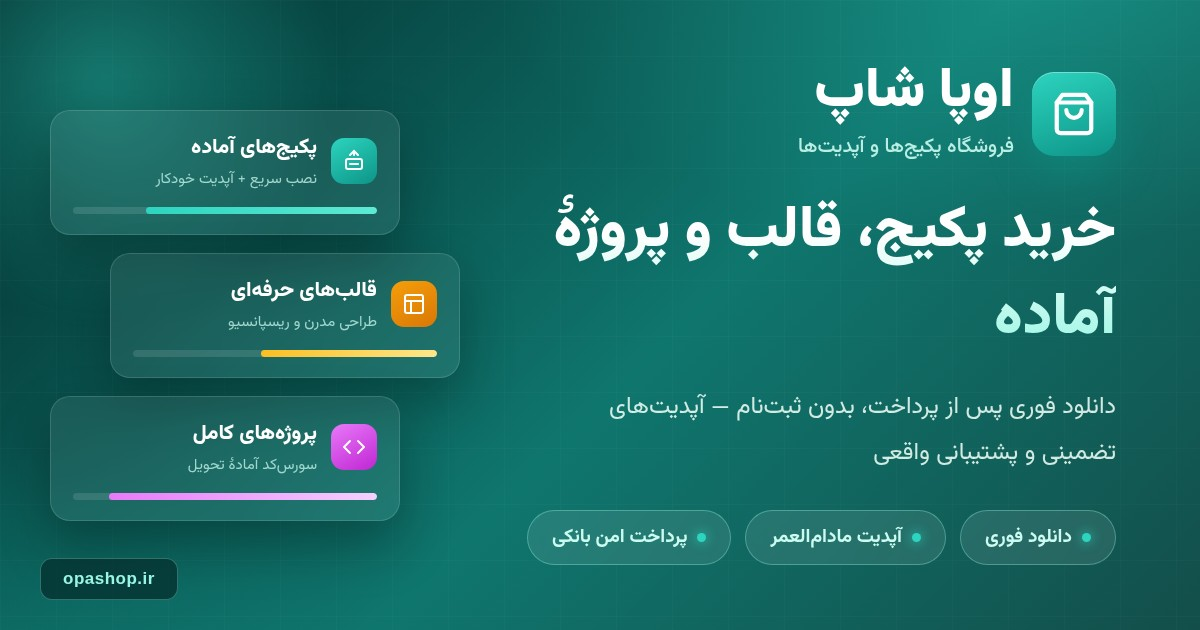
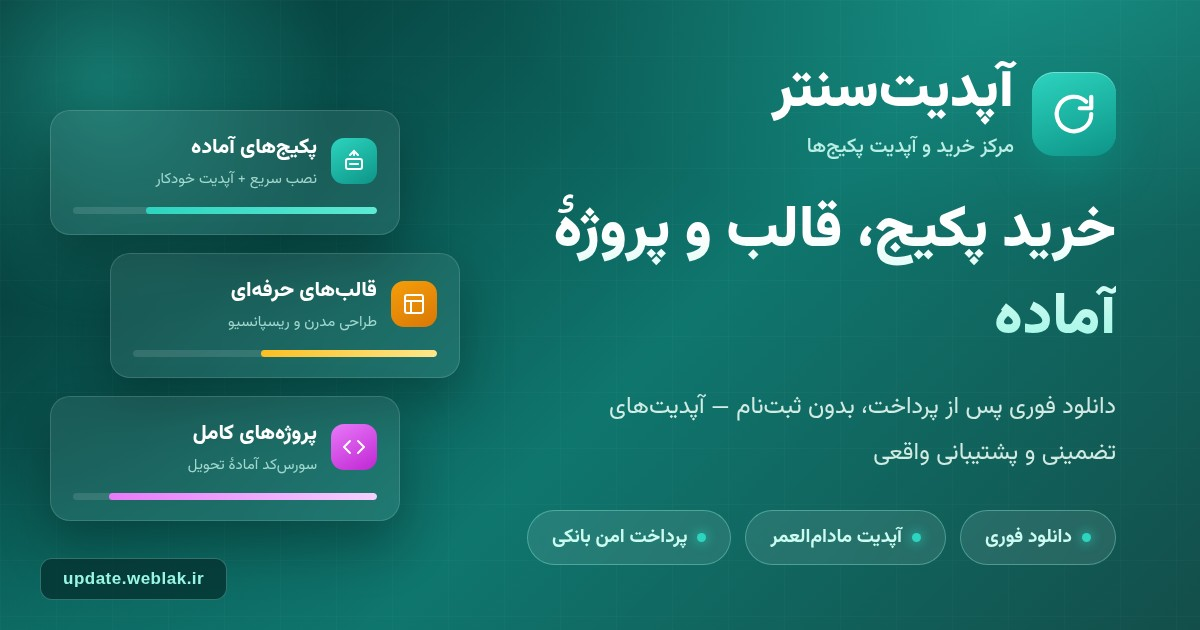
fix(seo): رفع ۵۰۰ صفحهٔ پکیجهای با دستهٔ متنی قدیمی (category?->name روی رشته) + فیکس FK رابطهٔ categoryModel که همیشه null میگشت + OG تصویر با برند آپدیتسنتر + تست رگرسیون

diff --git a/tests/Feature/SeoSystemTest.php b/tests/Feature/SeoSystemTest.php
@@ -3,6 +3,7 @@
 namespace Tests\Feature;
 
 use App\Livewire\Settings\SeoSettings;
+use App\Models\Category;
 use App\Models\Setting;
 use App\Models\Template;
 use App\Models\User;
@@ -148,6 +149,35 @@ class SeoSystemTest extends TestCase
             ->assertOk()
             ->assertSee('<title>عنوان سفارشی سئو', false)
             ->assertSee('<meta name="description" content="توضیح سفارشی سئو برای پکیج"', false);
+    }
+
+    /** گاتچای ۲۶+۲۷: پکیج با دستهٔ متنیِ قدیمی — رابطه با FK درست + سئو بدون خطای «name on string» */
+    public function test_package_with_legacy_category_string_renders_and_uses_category_model(): void
+    {
+        $cat = Category::create([
+            'type' => 'package',
+            'name' => 'افزونهٔ سئو',
+            'slug' => 'legacy-cat-'.uniqid(),
+            'is_active' => true,
+            'sort_order' => 50,
+        ]);
+
+        $package = $this->makePackage([
+            'name' => 'پکیج دستهٔ قدیمی',
+            'slug' => 'legacy-cat-pkg',
+            // ستون متنیِ قدیمی پر است — نباید سئو/صفحه را ۵۰۰ کند
+            'category' => 'افزونهٔ سئو',
+        ]);
+        $package->category_id = $cat->id;
+        $package->save();
+
+        // رابطه با FK صریح category_id باید مدل واقعی برگرداند (نه همیشه null)
+        $this->assertSame('افزونهٔ سئو', $package->categoryModel?->name);
+
+        // متای پکیج: اسکیما باید نام دستهٔ ساختاریافته را بگیرد و صفحه ۲۰۰ باشد
+        $this->get(route('shop.package', 'legacy-cat-pkg'))
+            ->assertOk()
+            ->assertSee('"applicationSubCategory":"افزونهٔ سئو"', false);
     }
 
     public function test_product_meta_fields_take_precedence(): void

diff --git a/app/Support/Seo.php b/app/Support/Seo.php
@@ -317,7 +317,9 @@ class Seo
                 'url' => '/packages/'.$package->slug,
                 'priceToman' => $price,
                 'currencyNote' => 'toman',
-                'category' => $package->category?->name,
+                // ⚠ categoryModel نه category — ستون متنیِ قدیمی category آبجکت نیست
+                // و «?->name» روی رشته برای پکیجهای قدیمی خطای ۵۰۰ میداد (گاتچای ۲۷)
+                'category' => $package->categoryModel?->name,
                 'rating' => $rating,
                 'version' => $package->latestVersion?->version,
                 'kind' => 'package',

diff --git a/app/Models/Package.php b/app/Models/Package.php
@@ -49,7 +49,9 @@ class Package extends Model
      */
     public function categoryModel(): BelongsTo
     {
-        return $this->belongsTo(Category::class);
+        // ⚠ FK صریح ضروری است: پیشفرض لاراول از نام متد «category_model_id» را حدس میزد
+        // در حالی که ستون واقعی category_id است → رابطه همیشه null برمیگشت (گاتچای ۲۶)
+        return $this->belongsTo(Category::class, 'category_id');
     }
 
     public function versions(): HasMany
